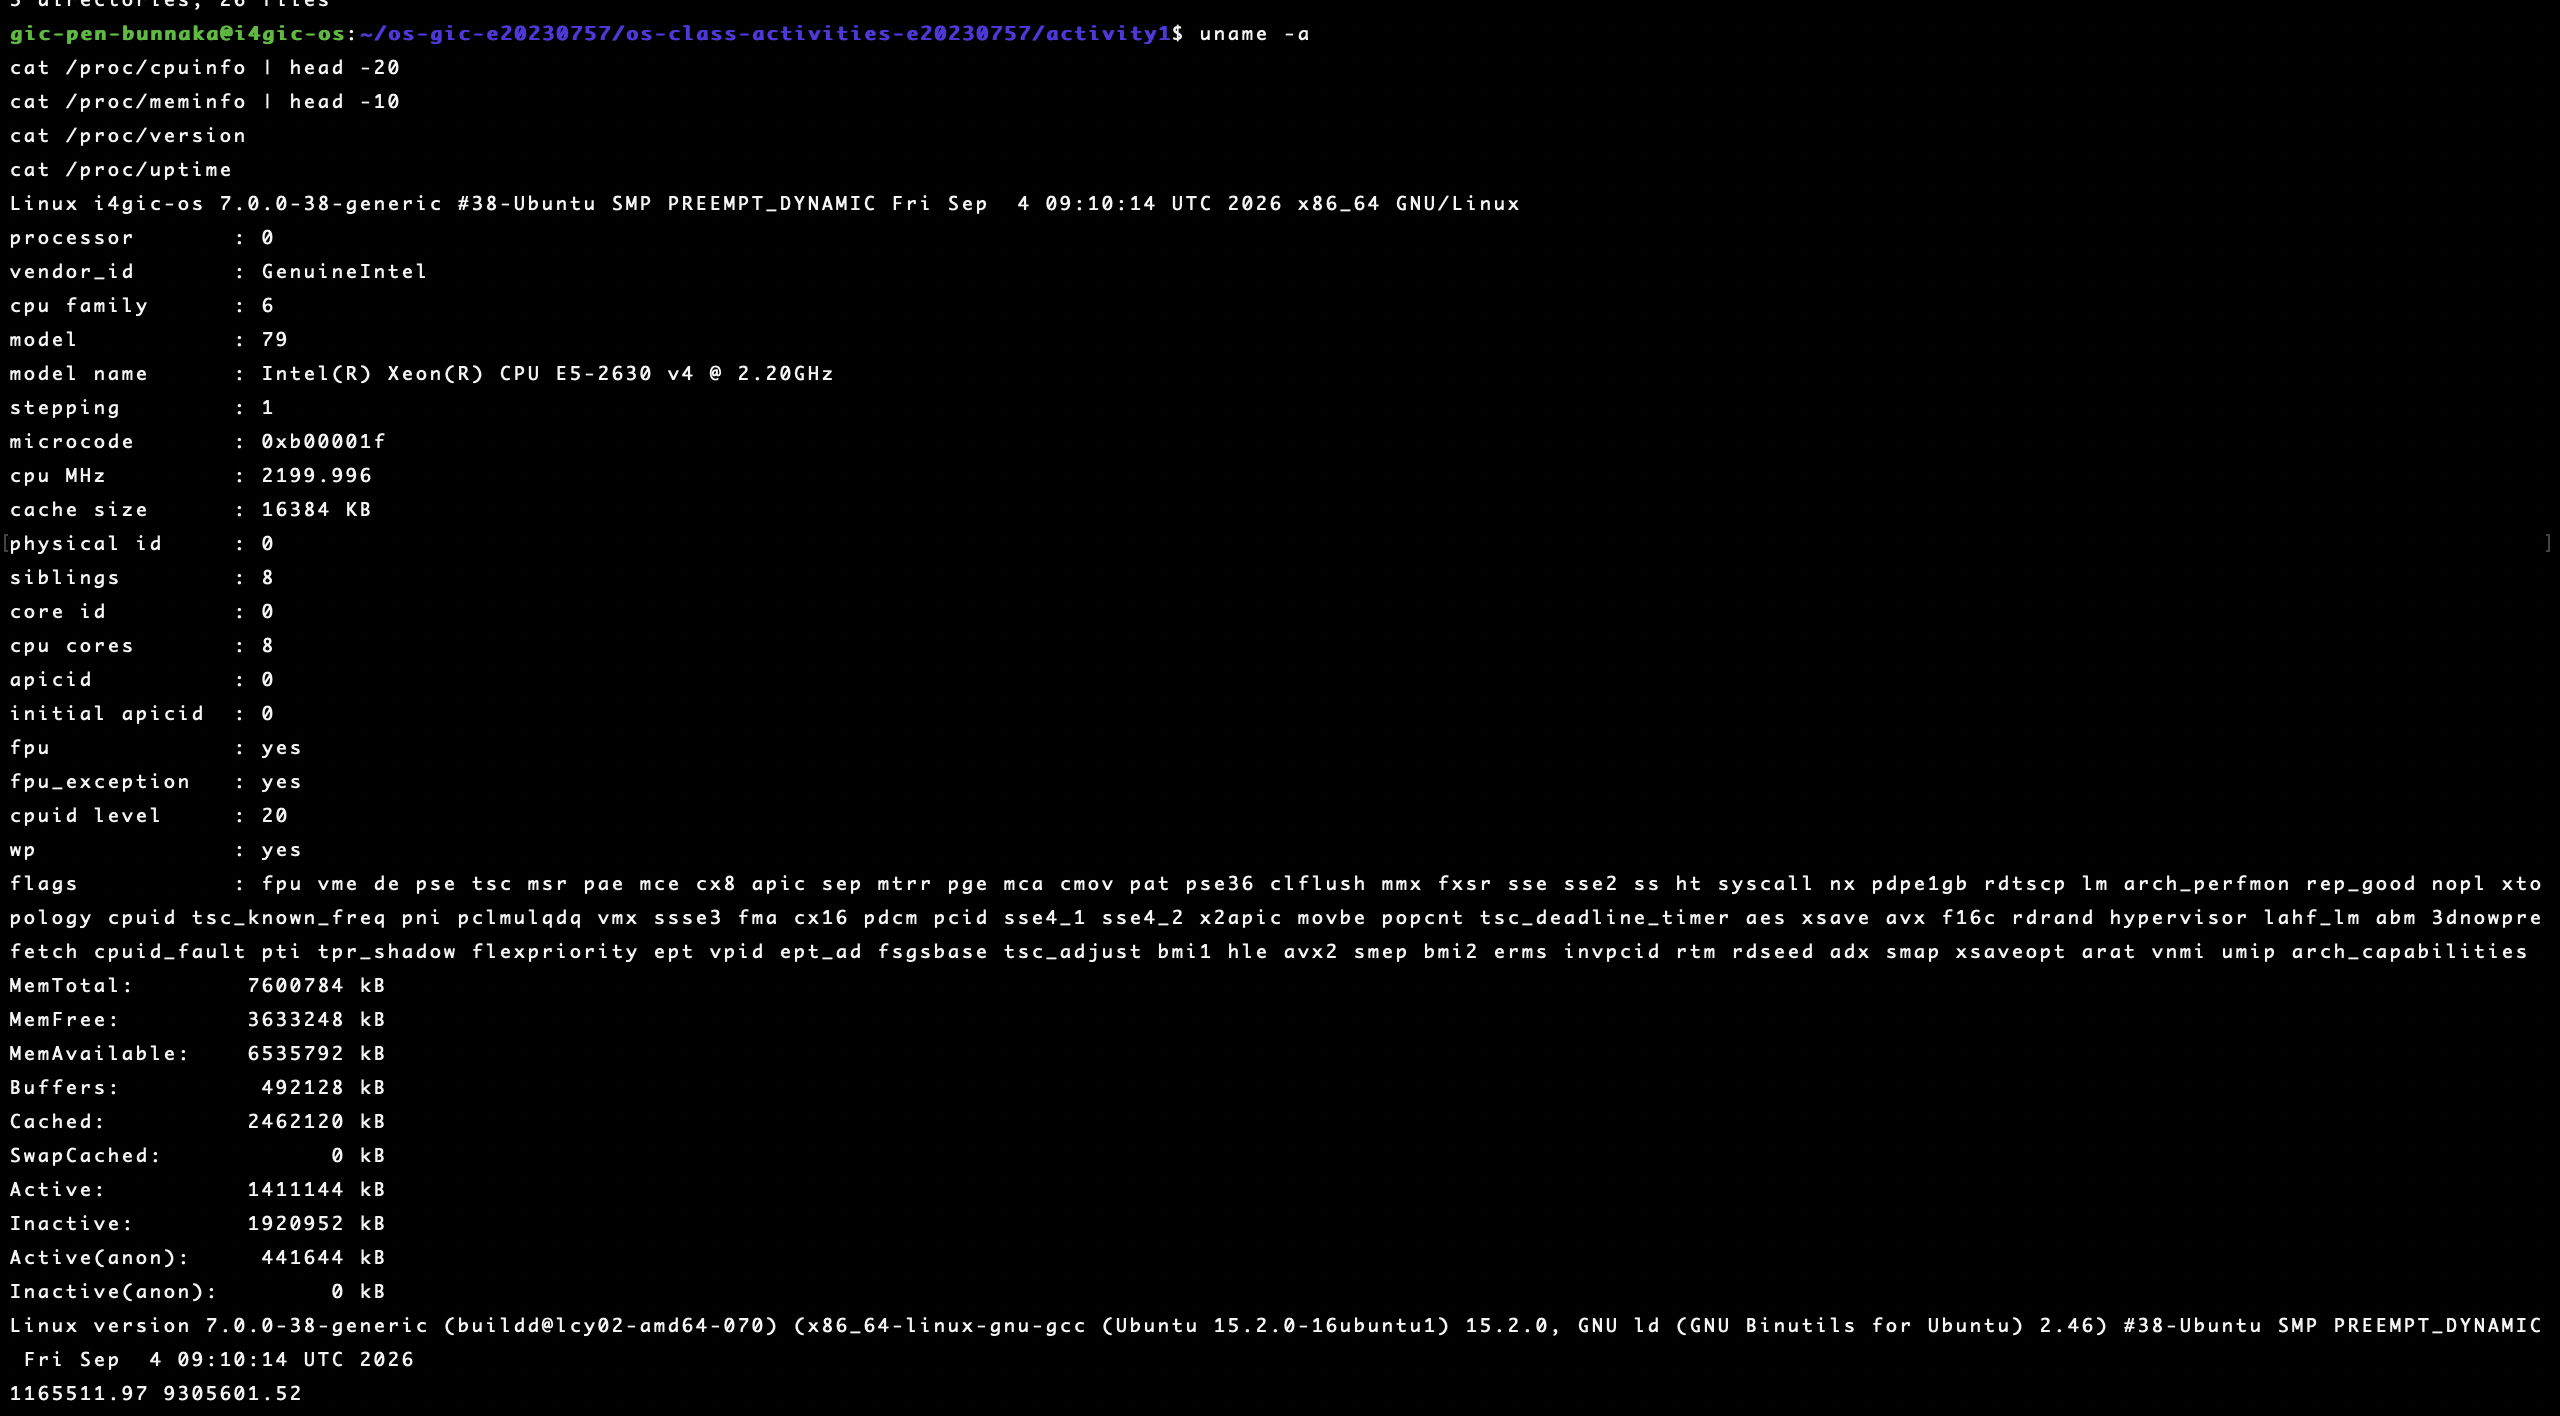
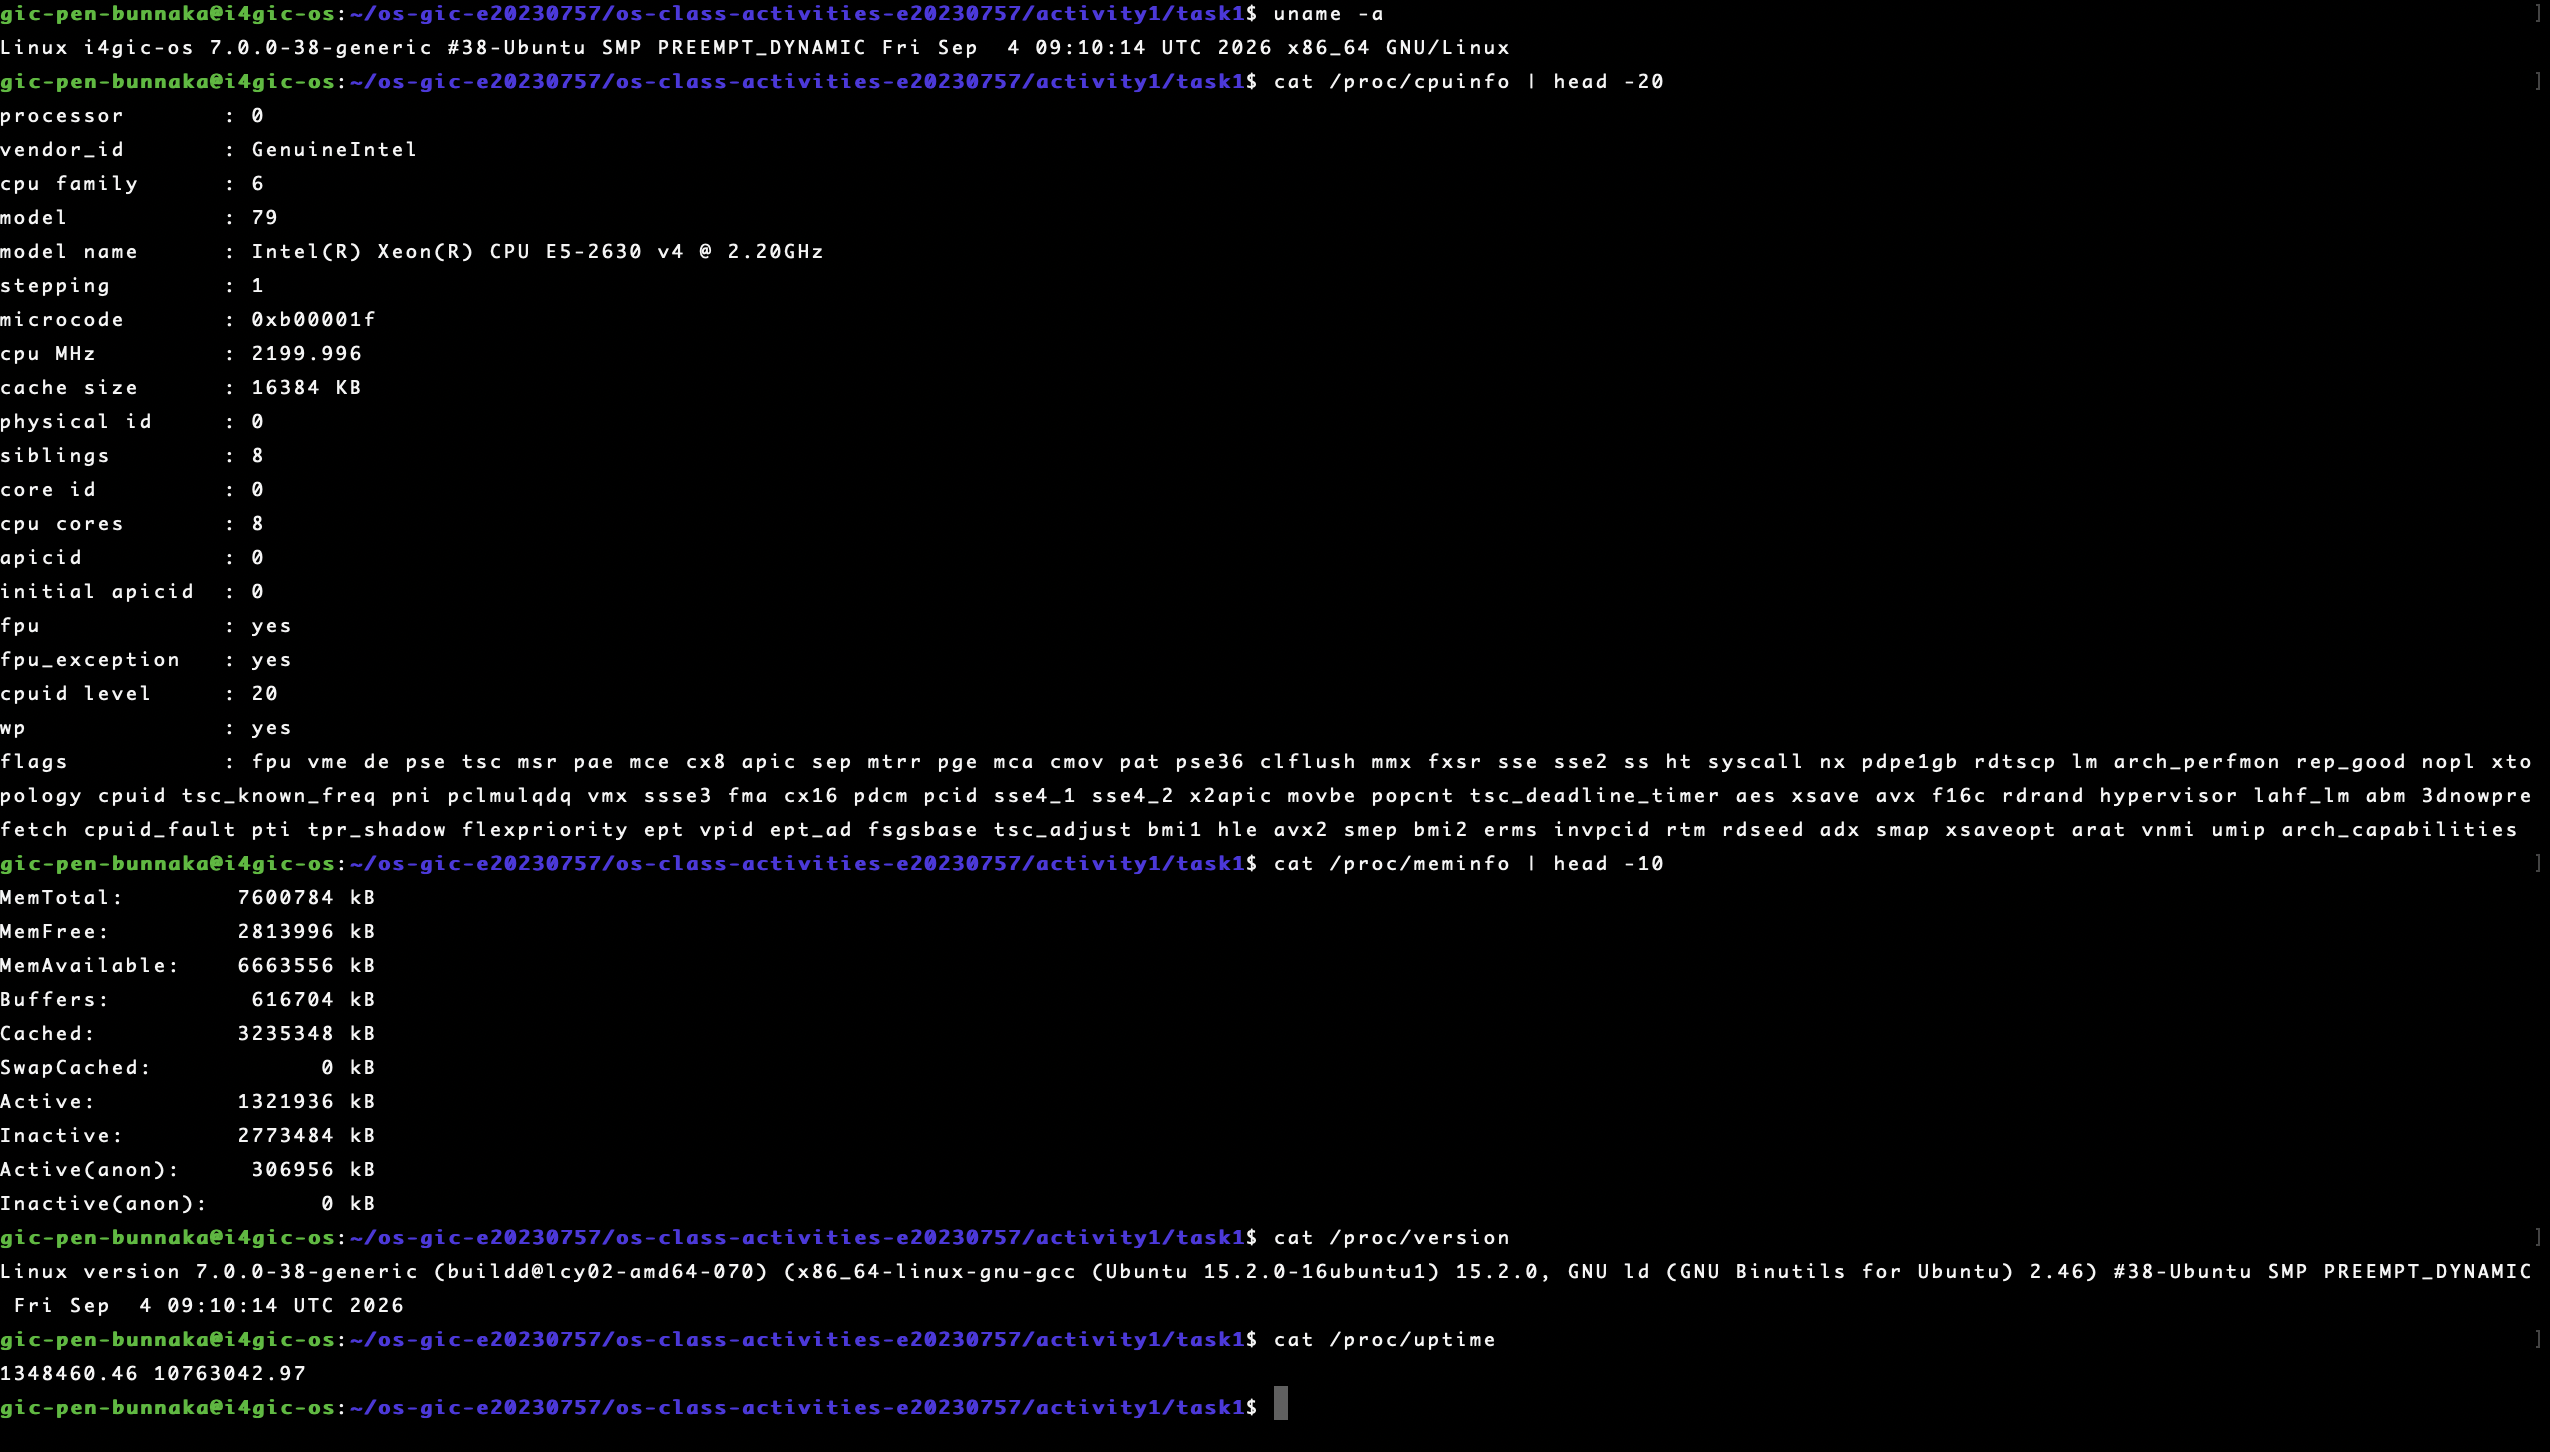
hh

diff --git a/os-class-activities-e20230757/activity1/README.md b/os-class-activities-e20230757/activity1/README.md
@@ -217,82 +217,54 @@ The library version made significantly more system calls (38 calls vs 33 calls i
 
 ### OS Layers Diagram
 
-> 📸 Your diagram of the OS layers, labeled with real data from your system:
+> The diagram of the OS layers, labeled with real data from your system:
 
-```mermaid
-flowchart TD
-    subgraph UserSpace["1. User Space (Ring 3) — Unprivileged Mode"]
-        direction TB
-        Apps["User Applications: file_creator_sys, file_creator_lib, dir_list_sys, dir_list_lib"]
-        Shell["Command Shell: bash"]
-        LibC["C Standard Library: libc.so.6 (printf, fopen, fgets, fclose)"]
-    end
+![OS Diagram](screenshots/task4_os_layers_diagram.png)
 
-    subgraph SCI["2. System Call Interface (SCI) — Trap / Mode Transition"]
-        Syscalls["POSIX System Calls: open(), openat(), read(), write(), close(), stat(), brk()"]
-    end
 
-    subgraph KernelSpace["3. Kernel Space (Ring 0) — Privileged Kernel Mode"]
-        direction TB
-        KRelease["Kernel: Linux 7.0.0-38-generic #38-Ubuntu SMP PREEMPT_DYNAMIC (x86_64)"]
-        KSubsystems["Core Subsystems: Process Scheduler (CFS), Virtual Memory (VMM), VFS, IPC, Networking"]
-        KModules["Loaded Modules (lsmod): qrtr, binfmt_misc, kvm_intel, kvm, nfnetlink, intel_rapl_msr"]
-        ProcFS["Virtual Filesystem: /proc (/proc/cpuinfo, /proc/meminfo, /proc/self/maps)"]
-    end
+## Questions
 
-    subgraph HardwareLayer["4. Physical / Virtual Hardware Layer"]
-        direction TB
-        CPU["CPU: Intel(R) Xeon(R) CPU E5-2630 v4 @ 2.20GHz (8 cores, 16384 KB cache)"]
-        RAM["Memory: 7,600,784 kB (~7.6 GB RAM from /proc/meminfo)"]
-        IO["Storage & Devices: Virtual Block Storage, Virtual NIC, Console, Hardware Timer"]
-    end
+### 1. What is `/proc`? Is it a real filesystem on disk?
 
-    UserSpace -->|"Invokes system calls"| SCI
-    SCI -->|"Switches to Kernel Mode (Ring 0)"| KernelSpace
-    KernelSpace -->|"Controls & mediates physical resources"| HardwareLayer
-```
+`/proc` is a virtual filesystem provided by the Linux kernel. It is not a normal filesystem stored on a physical disk. Instead, its files are generated dynamically by the kernel to provide information about running processes, memory usage, CPU details, and other system information.
 
-### Questions
+### 2. Monolithic kernel vs. microkernel — which type does Linux use?
 
-1. **What is `/proc`? Is it a real filesystem on disk?**
+- **Monolithic kernel:** Most core operating system services, including process scheduling, memory management, filesystems, and device drivers, run in kernel space.
+- **Microkernel:** Only essential functions run in kernel space, while many other services operate in user space.
+- **Linux:** Linux uses a monolithic kernel design. However, it also supports loadable kernel modules, which allow certain kernel components to be loaded and unloaded when needed.
 
-   > `/proc` is a virtual (pseudo) filesystem created in memory (RAM) by the Linux kernel. It is not stored on a physical storage disk; the kernel dynamically generates its files and contents when read to expose real-time kernel state, hardware information, and running process data.
+### 3. What memory regions do you see in `/proc/self/maps`?
 
-2. **Monolithic kernel vs. microkernel — which type does Linux use?**
+The `/proc/self/maps` file displays the memory regions used by a process. Common regions include:
 
-   > - **Monolithic Kernel:** Core OS services (scheduling, memory management, filesystems, device drivers) run in a single shared, privileged address space (Ring 0).
-   > - **Microkernel:** Keeps minimal functionality in kernel space (IPC, basic scheduling) and runs most services in user space.
-   > - **Linux:** Uses a **monolithic kernel** that supports dynamic Loadable Kernel Modules (LKMs) via `lsmod`.
+- **Executable code:** Contains the program's machine instructions.
+- **Data segments:** Store global and static variables with different access permissions.
+- **Heap:** Used for dynamic memory allocation, such as with `malloc()`.
+- **Shared libraries:** Contains libraries loaded by the program, such as `libc.so.6`.
+- **Stack:** Stores function call information, local variables, and other temporary data.
+- **`[vdso]` and `[vvar]`:** Special memory regions used to provide certain kernel-related information and allow some operations to be performed efficiently.
 
-3. **What memory regions do you see in `/proc/self/maps`?**
+The exact regions may vary depending on the program and the system.
 
-   > - Executable text segment (`r-xp`) containing machine instructions
-   > - Read-only (`r--p`) and read-write (`rw-p`) data segments
-   > - `[heap]` for dynamic heap memory allocations (`malloc`/`brk`)
-   > - Shared libraries (`libc.so.6`, `ld-linux-x86-64.so.2`)
-   > - `[stack]` for function frames, local variables, and return pointers
-   > - `[vvar]` and `[vdso]` kernel virtual pages for fast system calls
+### 4. Break down the kernel version string from `uname -a`.
 
-4. **Break down the kernel version string from `uname -a`.**
+Based on my terminal output, the kernel version is `7.0.0-38-generic`.
 
-   > Based on `uname -a` (`7.0.0-38-generic #38-Ubuntu SMP PREEMPT_DYNAMIC x86_64`):
-   > - `7`: Major kernel version
-   > - `0`: Minor kernel release
-   > - `0`: Patch level
-   > - `-38`: Distribution ABI / build revision number
-   > - `-generic`: Ubuntu kernel configuration flavor
-   > - `#38-Ubuntu`: Official distro build number
-   > - `SMP PREEMPT_DYNAMIC`: Symmetric Multiprocessing with dynamic preemption
-   > - `x86_64`: 64-bit CPU architecture
+- **`7`:** Major kernel version.
+- **`0`:** Minor version.
+- **`0`:** Additional version component.
+- **`38`:** Ubuntu kernel build revision.
+- **`generic`:** Indicates the general-purpose Ubuntu kernel flavor.
+- **`#38-Ubuntu`:** Identifies the kernel build.
+- **`SMP`:** Indicates support for symmetric multiprocessing.
+- **`PREEMPT_DYNAMIC`:** Indicates that the kernel supports dynamically configurable preemption behavior.
+- **`x86_64`:** Indicates a 64-bit x86 architecture.
 
-5. **How does `/proc` show that the OS is an intermediary between programs and hardware?**
+### 5. How does `/proc` show that the OS is an intermediary between programs and hardware?
 
-   > User programs cannot directly access hardware registers or memory controllers due to CPU privilege ring protection. The OS kernel queries the physical hardware, abstracts the raw state into structured virtual text files in `/proc` (such as `/proc/cpuinfo` and `/proc/meminfo`), and provides unprivileged user programs a safe, standard file read interface to inspect system hardware.
-
----
+The `/proc` filesystem demonstrates how the operating system provides programs with an interface to system information. For example, `/proc/cpuinfo` provides CPU details, while `/proc/meminfo` shows memory information. The kernel gathers and presents this information in a readable format, allowing user programs to inspect the system without directly accessing hardware.
 
 ## Reflection
 
-What did you learn from this activity? What was the most surprising difference between library functions and system calls?
-
-> Through this activity, I learned that C standard library functions (like `printf` and `fopen`) are user-space abstractions with internal buffering that operate on top of low-level POSIX system calls (`write`, `open`, `read`, `close`). Tracing with `strace` revealed the true boundary between user space and kernel space, showing how library functions reduce overhead by batching multiple I/O operations into fewer system calls. Exploring `/proc` further clarified how the operating system manages process memory maps and mediates access to hardware resources.
+Through this activity, I learned more about how the Linux operating system works and how programs interact with the kernel. I discovered that library functions, such as `printf()` and `fopen()`, provide convenient interfaces for programmers, while system calls, such as `write()`, `open()`, and `read()`, allow programs to request services from the kernel. I also learned that library functions may use buffering to reduce the number of system calls. Using tools such as `strace` helped me understand the interaction between user space and kernel space. Finally, exploring `/proc` helped me understand how Linux provides information about processes, memory, and hardware.
